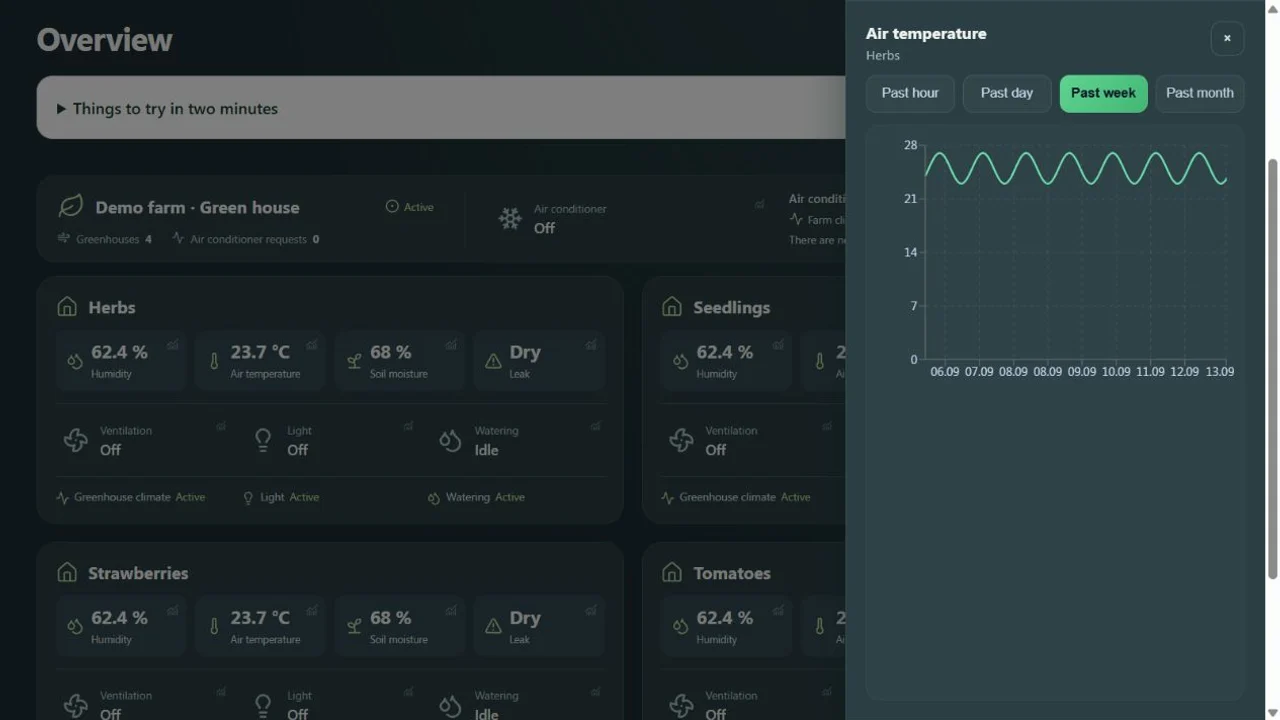
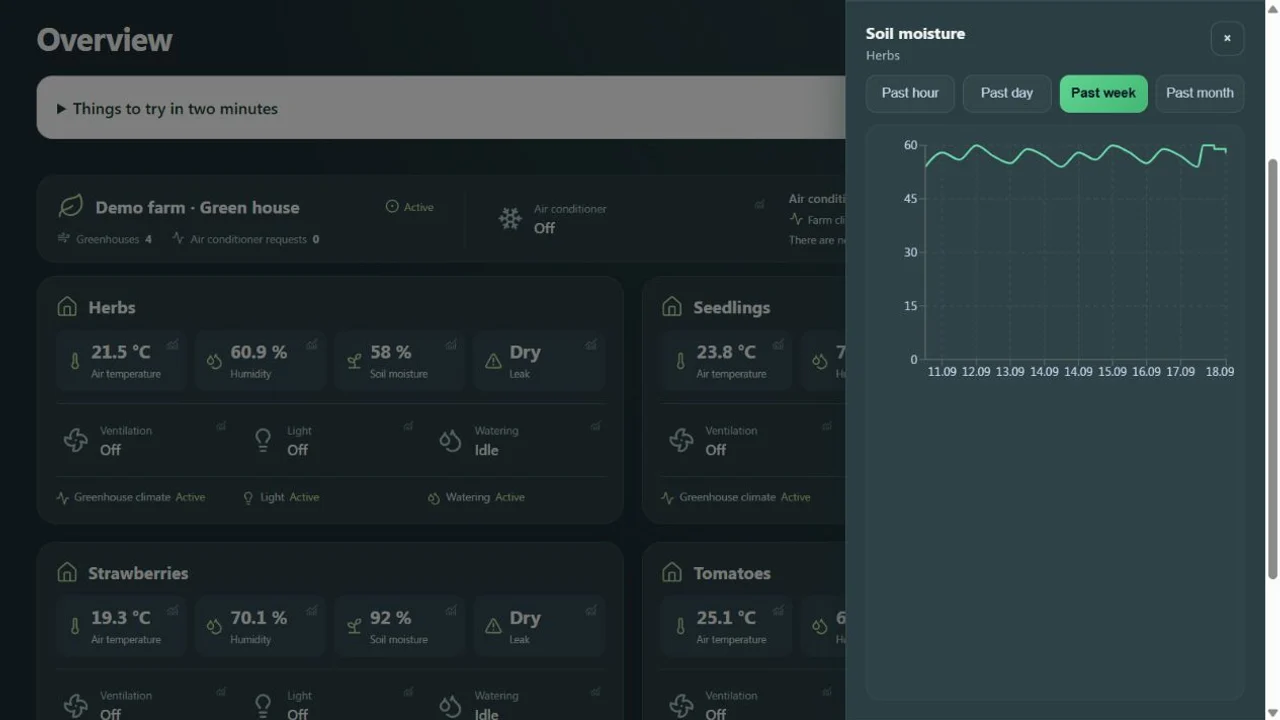
Refresh English demo screenshots

diff --git a/frontend/src/pages/MiniFarmPage.jsx b/frontend/src/pages/MiniFarmPage.jsx
@@ -84,7 +84,7 @@ function MiniFarmPage() {
 
                 <img
                   className="product-screenshot"
-                  src={`${screenshotPrefix}/${screenshotNames[index]}.webp${index === 0 ? `?v=${overviewScreenshotVersion}` : ''}`}
+                  src={`${screenshotPrefix}/${screenshotNames[index]}.webp?v=${overviewScreenshotVersion}`}
                   alt={screen.text}
                   width="1280"
                   height={index === 0 ? overviewScreenshotDimensions[locale].height : 720}

diff --git a/frontend/src/content/productScreenshots.js b/frontend/src/content/productScreenshots.js
@@ -1,6 +1,6 @@
-export const overviewScreenshotVersion = '20260917';
+export const overviewScreenshotVersion = '20260918';
 
 export const overviewScreenshotDimensions = {
   ru: { width: 1280, height: 975 },
-  en: { width: 1280, height: 984 },
+  en: { width: 1280, height: 1064 },
 };

diff --git a/frontend/content/en/articles/growerhub-and-home-assistant-via-mqtt-practical-integration-scheme.md b/frontend/content/en/articles/growerhub-and-home-assistant-via-mqtt-practical-integration-scheme.md
@@ -4,7 +4,7 @@ slug: growerhub-and-home-assistant-via-mqtt-practical-integration-scheme
 title: 'GrowerHub and Home Assistant via MQTT: practical integration scheme'
 summary: "Connect an existing Zigbee2MQTT and Home Assistant installation to GrowerHub: MQTT bridge, first sensor, history, control ownership and disconnection."
 created_at: '2026-07-23'
-updated_at: "2026-09-13"
+updated_at: "2026-09-18"
 cluster: home-assistant-i-diy
 tags:
   - GrowerHub
@@ -25,7 +25,7 @@ Already running Home Assistant, Zigbee2MQTT and sensors? Keep that installation 
 
 **See the result first:** [open the demo without signing up](/app/demo/?lang=en). It contains four greenhouses, virtual devices and seven days of history. Open a temperature chart, try watering and change the environment. The demo uses the same application and automation rules as a regular farm; its readings are simulated.
 
-![Four greenhouses in the actual GrowerHub demo](/screenshots/en/zones.webp?v=20260917)
+![Four greenhouses in the actual GrowerHub demo](/screenshots/en/zones.webp?v=20260918)
 
 ## What you need
 
@@ -75,7 +75,7 @@ Check the logs for successful connections to both brokers. Do not share password
 3. Create your first greenhouse and assign the sensor to its slot in Farm constructor.
 4. Open the sensor chart from Overview. GrowerHub history starts when telemetry arrives; existing HA history stays in HA.
 
-![Temperature history in the shared GrowerHub interface; demo readings are simulated](/screenshots/en/history.webp)
+![Soil moisture history in the shared GrowerHub interface; demo readings are simulated](/screenshots/en/history.webp?v=20260918)
 
 ## Choose which system controls the equipment
 

diff --git a/frontend/content/en/articles/mini-farm-of-two-grow-boxes-how-to-organize-control-and-automation.md b/frontend/content/en/articles/mini-farm-of-two-grow-boxes-how-to-organize-control-and-automation.md
@@ -61,7 +61,7 @@ Look beyond the latest number: compare daily changes and differences between zon
 
 Return to the shared timeline and check that the selected zone's interval changed. Saving a schedule and enabling a scenario are separate actions; check the switch next to the greenhouse. The overview shows the lamp's current state. Having a schedule does not necessarily mean the light should be on now.
 
-![Light schedules for four virtual greenhouses in GrowerHub](/screenshots/en/automation.webp)
+![Light schedules for four virtual greenhouses in GrowerHub](/screenshots/en/automation.webp?v=20260918)
 
 *The shared light timeline. Each greenhouse has its own interval. On a phone, tap an interval to open its detailed controls.*
 
